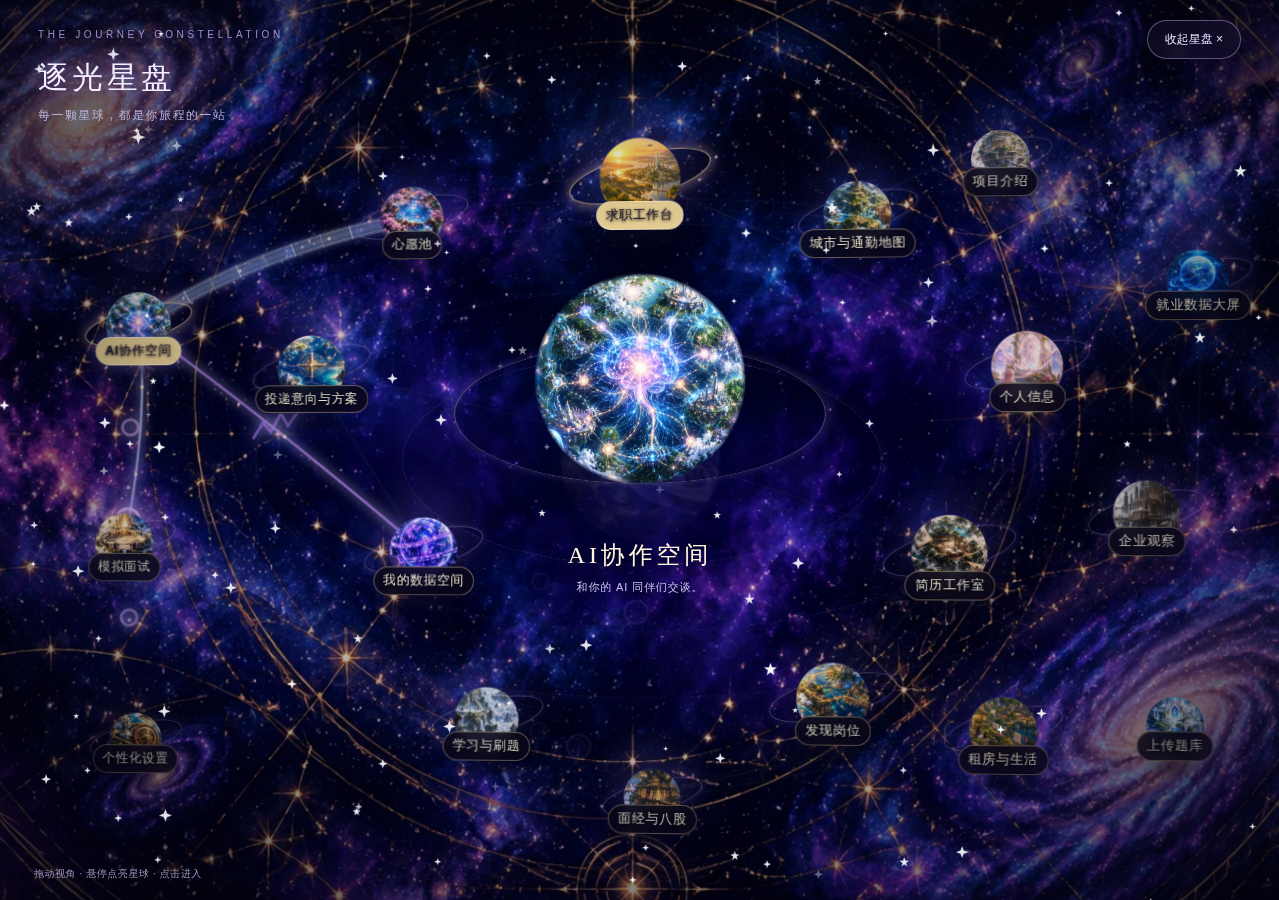
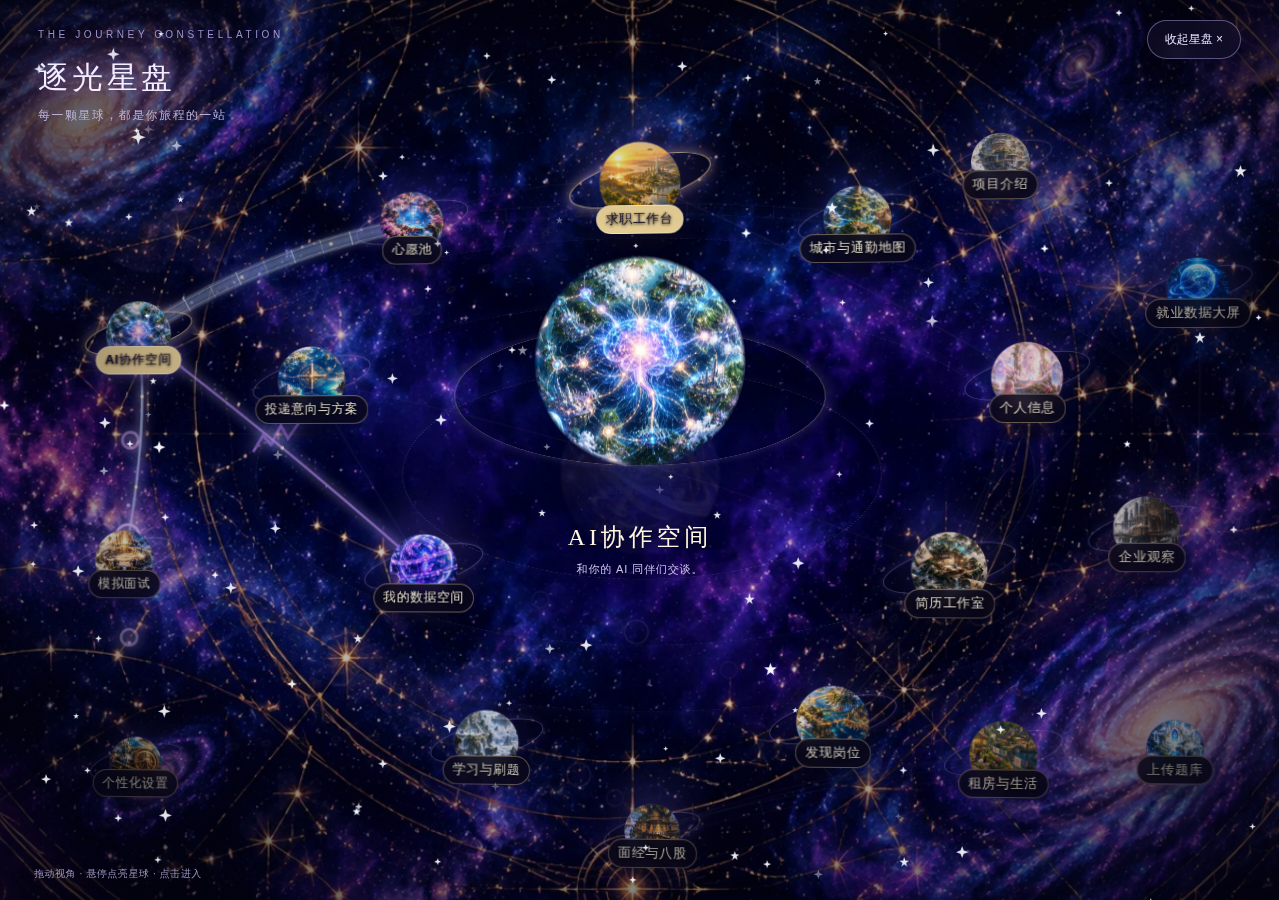
fix: 星盘面经节点下移、协作空间滚动条与附件按钮
面经八股再下移并上移法天象地预览；AI协作空间隐藏内部滚动条但保留滚动；附件加号改为grid居中；资源版本提升到1.12.10。

diff --git a/app/src/app.css b/app/src/app.css
@@ -2800,3 +2800,11 @@ html[data-theme="night"] .housing-rent select { color: #eaf2ff; }
 .ds-session-del:hover{background:#fff3f5;color:#b04a63}
 .interview-resume-select{max-width:240px;padding:5px 8px;border:1px solid #d8d0e8;border-radius:7px;background:#fff;color:#3d3355;font-size:12px}
 .star-preview{top:46%!important}
+/* 协作空间滚动条隐藏但保留滚动 */
+.ds-chat-list,.ds-agent-list,.ds-session-list{scrollbar-width:none;-ms-overflow-style:none}
+.ds-chat-list::-webkit-scrollbar,.ds-agent-list::-webkit-scrollbar,.ds-session-list::-webkit-scrollbar{width:0;height:0;display:none}
+/* 上传附件加号居中 */
+.ds-attach-btn{display:grid!important;place-items:center!important;padding:0!important;line-height:1!important;text-align:center!important}
+/* 面经八股再下移；给底部腾空间 */
+.star-map-stage{bottom:30px!important}
+.star-preview{top:44%!important}

diff --git a/app/src/index.html b/app/src/index.html
@@ -5,14 +5,14 @@
     <meta name="viewport" content="width=device-width,initial-scale=1" />
     <meta name="color-scheme" content="light" />
     <title>逐光 · AI求职助手</title>
-    <link rel="stylesheet" href="/assets/app.css?v=1.12.9" />
+    <link rel="stylesheet" href="/assets/app.css?v=1.12.10" />
     <link rel="stylesheet" href="/assets/resume-studio.css" />
     <link rel="stylesheet" href="/assets/proto.css" />
     <link rel="stylesheet" href="/assets/proto-extra.css" />
-    <link rel="stylesheet" href="/assets/main.css?v=1.12.9" />
+    <link rel="stylesheet" href="/assets/main.css?v=1.12.10" />
   </head>
   <body>
     <div id="app"></div>
-    <script type="module" src="/assets/main.js?v=1.12.9"></script>
+    <script type="module" src="/assets/main.js?v=1.12.10"></script>
   </body>
 </html>

diff --git a/app/src/star-map.ts b/app/src/star-map.ts
@@ -15,7 +15,7 @@ const POS: Record<string, Position> = {
   dashboard: { x: 93, y: 27, z: 10, size: 88 },
   companies: { x: 89, y: 57, z: 6, size: 94 },
   housing: { x: 78, y: 85, z: 12, size: 96 },
-  knowledge: { x: 51, y: 94, z: 8, size: 82 },
+  knowledge: { x: 51, y: 95, z: 8, size: 80 },
   practice: { x: 38, y: 84, z: 16, size: 94 },
   interview: { x: 9, y: 61, z: 4, size: 88 },
   chat: { x: 10, y: 32, z: 12, size: 92 },

diff --git a/docs/MANUAL_TESTING.md b/docs/MANUAL_TESTING.md
@@ -101,6 +101,7 @@
 | 22 | 关闭按钮/圆盘 | 打开通告、登录弹窗；看板娘圆盘 | × 垂直水平居中；紫色圆盘 ✦ 居中 | 深色主题同样 |
 | 23 | 岗位投递意向筛选 | 岗位页点“加入投递意向”并保存；切换“已确认/未确认投递意向” | 卡片出现已确认/待保存徽标；已确认筛选只显示已保存岗位 | 未保存选择算未确认 |
 | 35 | 逐光星盘 3D 宇宙地图 | 点击“展开星盘”；悬停星球；点击任意星球；关闭 | 星盘入口是动态天体盘；18 颗星球无底座框，名称嵌在所属星球上；连接粗细接近，桥不压过星球；1279×601/1279×900 下无节点/标签重叠；右下角无连接形式图例；悬停星球/相关连线发光，中央出现大星球预览；中心 3D 天体盘自转，背景星尘闪烁并有流星；点击进入板块；二次打开图片走缓存 | 1279×900 / 1279×601 |
+| 39 | 协作空间滚动条/加号 | 打开AI协作空间，滚动 agent/对话列表，检查附件加号 | 滚动条隐藏但滚轮可用；加号水平垂直居中 | 1279×559 |
 | 38 | 自建科目/版本上传 | 新建科目和版本，在刷题页确认出现；回上传页选择自建版本上传知识点/题库 | 上传成功；题目/知识点进入所选版本，不报版本不存在 | 1279×800 |
 | 36 | 面试简历切换 | 创建两份简历，进入模拟面试，切换简历后开始 | 下拉框有多个简历；选择会持久保存；AI 读取选中简历 | 1279×800 |
 | 37 | AI协作空间会话/附件 | 新建、删除会话；上传图片/文件 | 会话数正确增减；附件预览出现；发送可用 | 1279×800 |
